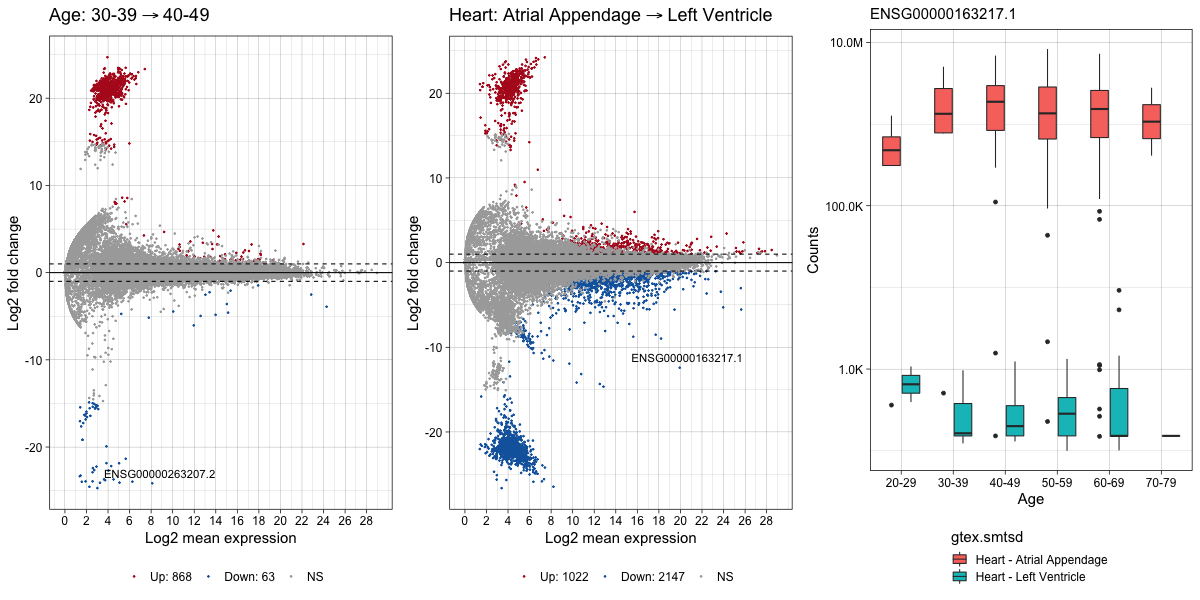
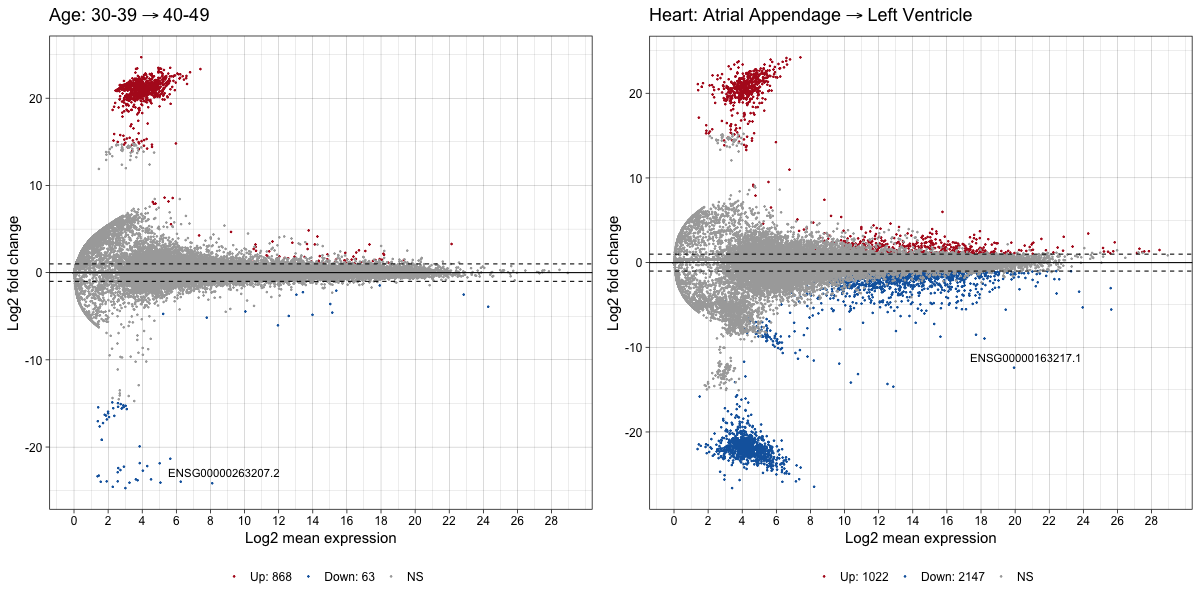
new figs

diff --git a/recount3/recount3.md b/recount3/recount3.md
@@ -978,22 +978,25 @@
              legend = "bottom", top = 1,
              ggtheme = ggplot2::theme_linedraw(base_size = 15))
 
-    p2 <- plot_grid(d,e, f, nrow = 1)
-
-    ## Warning: Transformation introduced infinite values in continuous y-axis
-
-    ## Warning: Removed 51 rows containing non-finite values (stat_boxplot).
-
+    p2 <- plot_grid(d,e, nrow = 1)
     p2
 
 ![](recount3_files/figure-markdown_strict/recount3-gtex-4.png)
 
-    png("../images/recount3-gtex-2.png", width = 1200, height = 600)
+    png("../images/recount3-gtex-4.png", width = 1200, height = 600)
     print(p2)
     dev.off()
 
     ## quartz_off_screen 
     ##                 2
+
+    f
+
+    ## Warning: Transformation introduced infinite values in continuous y-axis
+
+    ## Warning: Removed 51 rows containing non-finite values (stat_boxplot).
+
+![](recount3_files/figure-markdown_strict/recount3-gtex-5.png)
 
     sum(res1$padj < 0.05, na.rm=TRUE) # age 1145 DEGS
 
